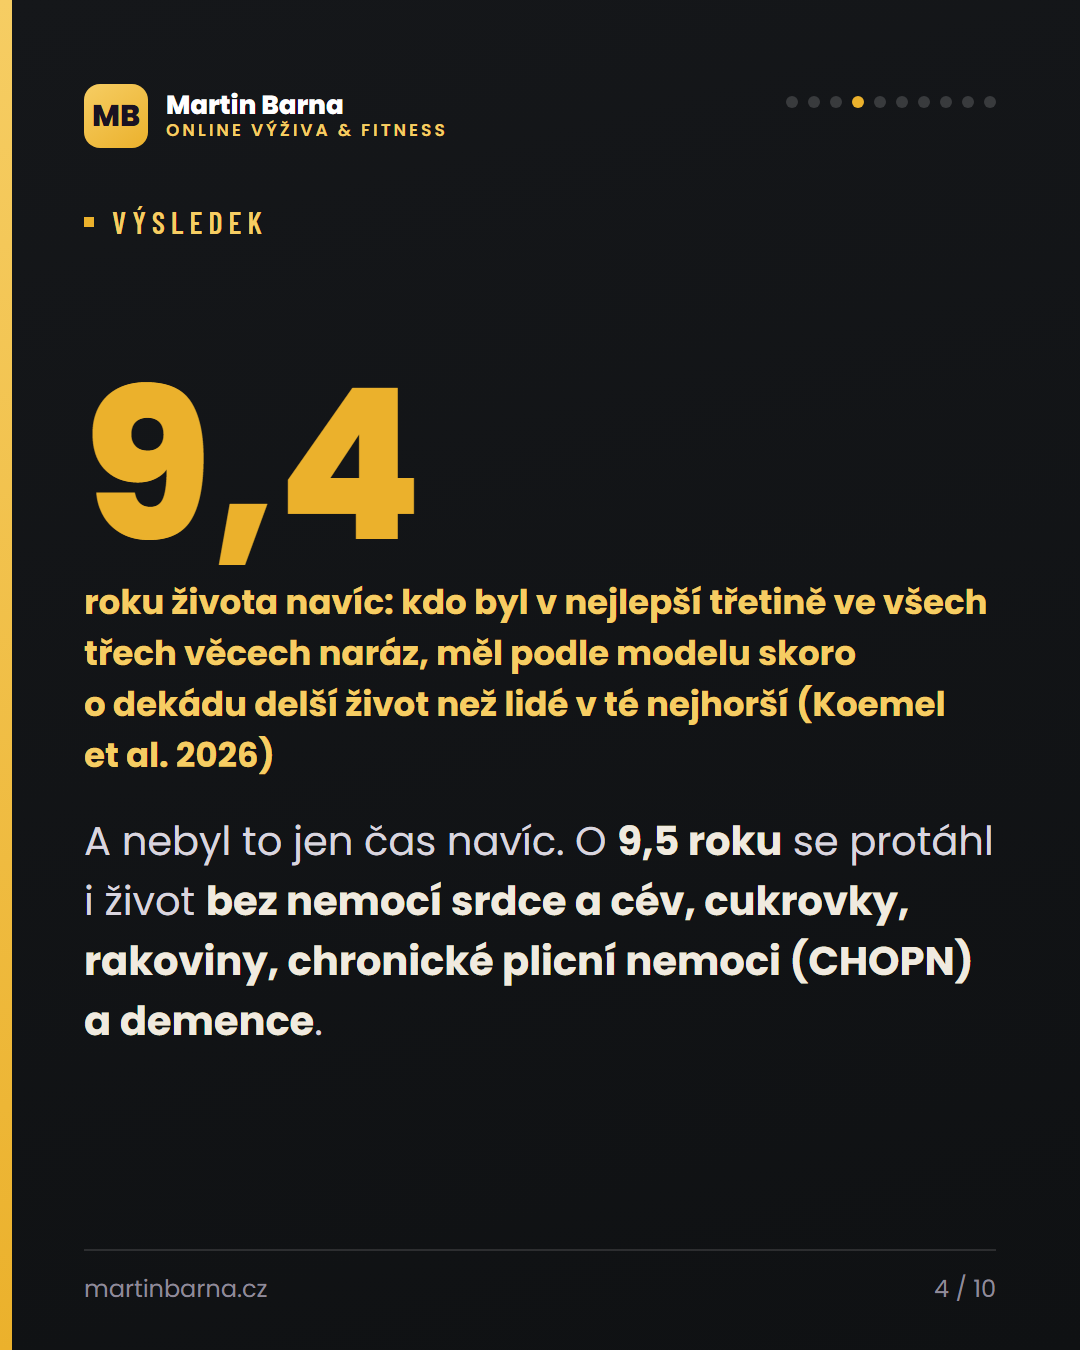
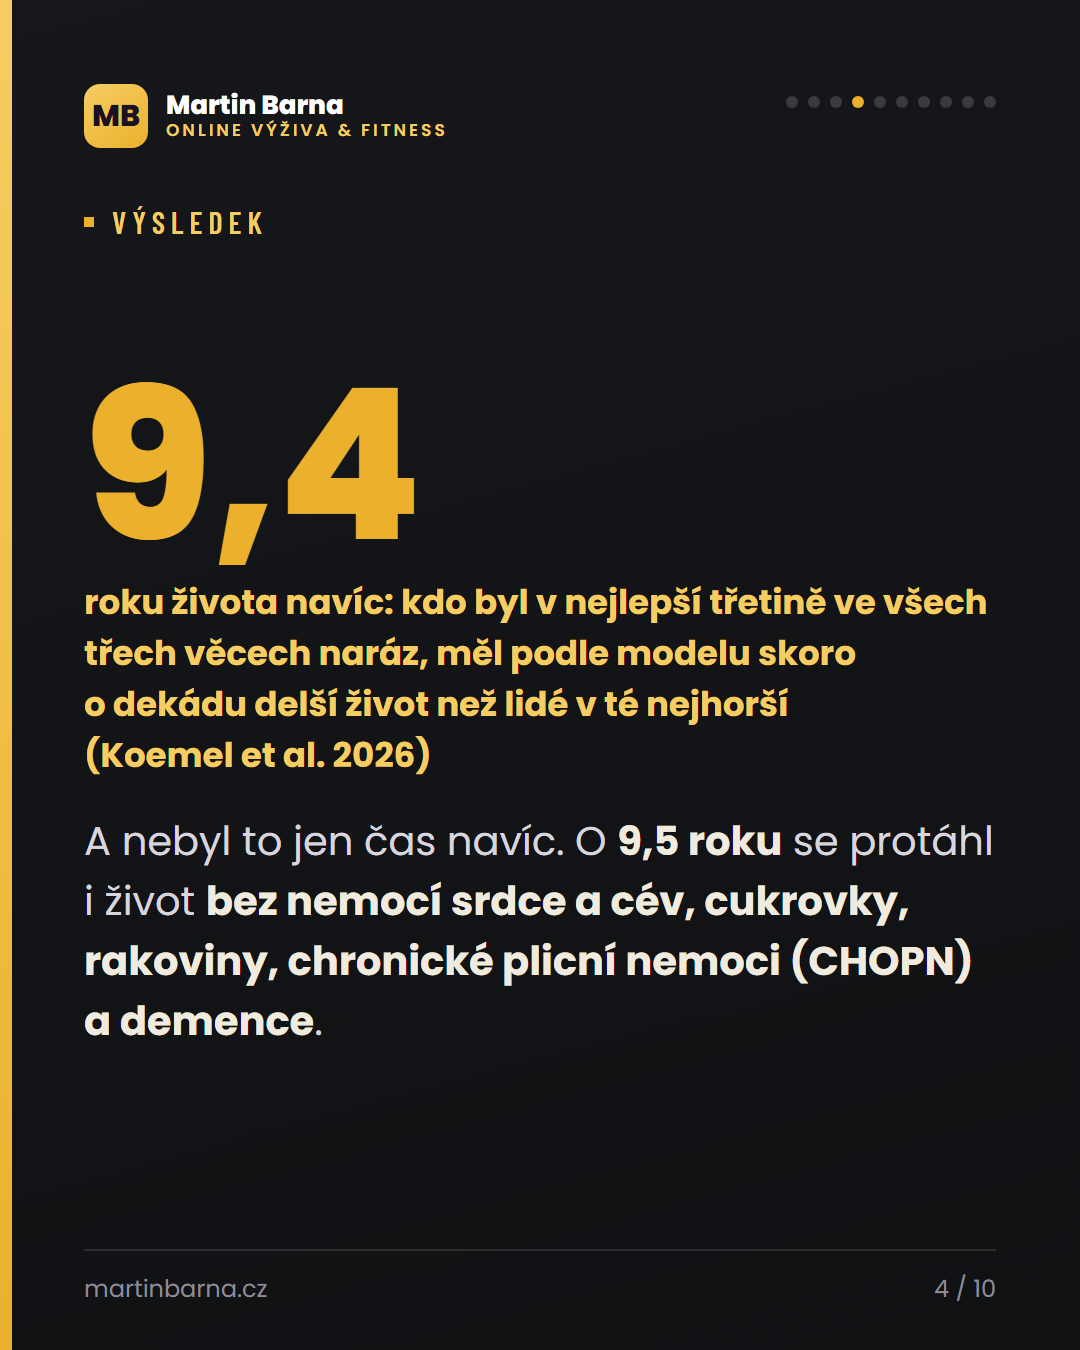
Infografiky R3: nizke nalezy (protein-post 7 trenovanym, omlazeni 8+9, alkohol obalka, et al. NBSP), pregenerovano 30, preteceni 0 v sade

Changed region(s): [[0.0611, 0.5289, 0.3972, 0.5911], [0.7333, 0.4978, 0.8861, 0.5289]]

diff --git a/scripts/generate-carousel.js b/scripts/generate-carousel.js
@@ -73,6 +73,8 @@ function typo(text) {
       .replace(/(?<=\d) (a|až)[ \u00a0](?=\d)/g, NB + '$1' + NB)
       // „et al." se nesmí rozdělit na dva řádky (R2: „Koemel et / al.")
       .replace(/(?<![\p{L}])et al\./gu, 'et' + NB + 'al.')
+      // a jméno autora před ním taky (R3: „Koemel / et al.“)
+      .replace(/(?<=\p{L}) et(?=\u00a0al\.)/gu, NB + 'et')
       .replace(/(?<=\d) (?=\d{3}(?!\d))/g, NB)
       // číslo a jednotka nebo procento: 2 %, 30 g, 188 kcal, 1,6 g/kg
       .replace(new RegExp(`(?<=\\d) (?=${JEDNOTKA}(?![\\p{L}\\p{N}]))`, 'gu'), NB)
